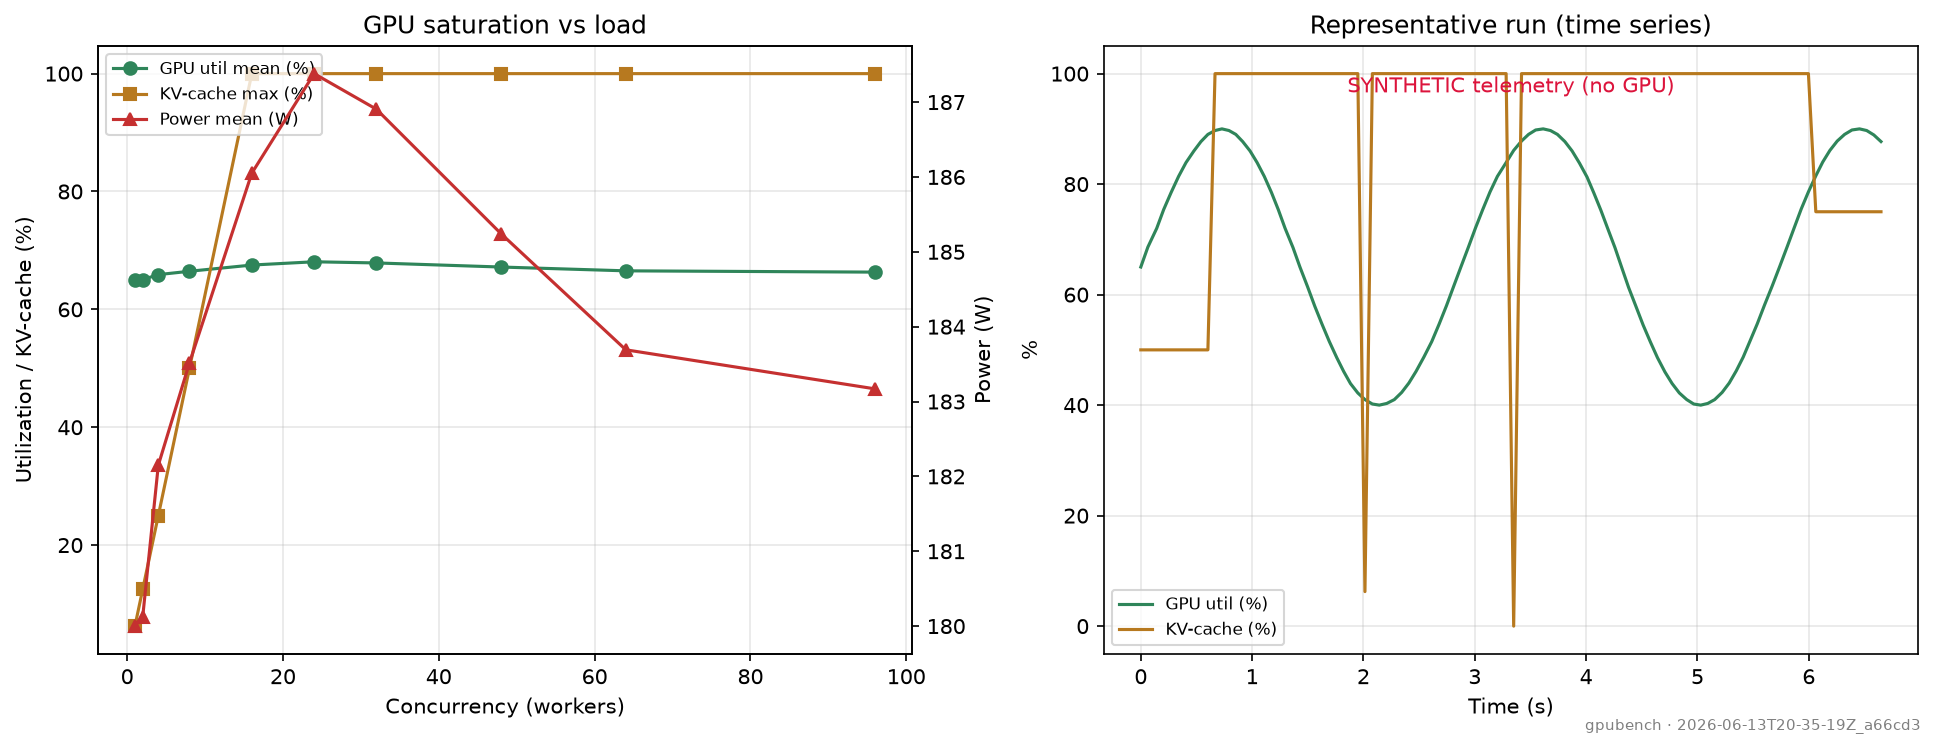
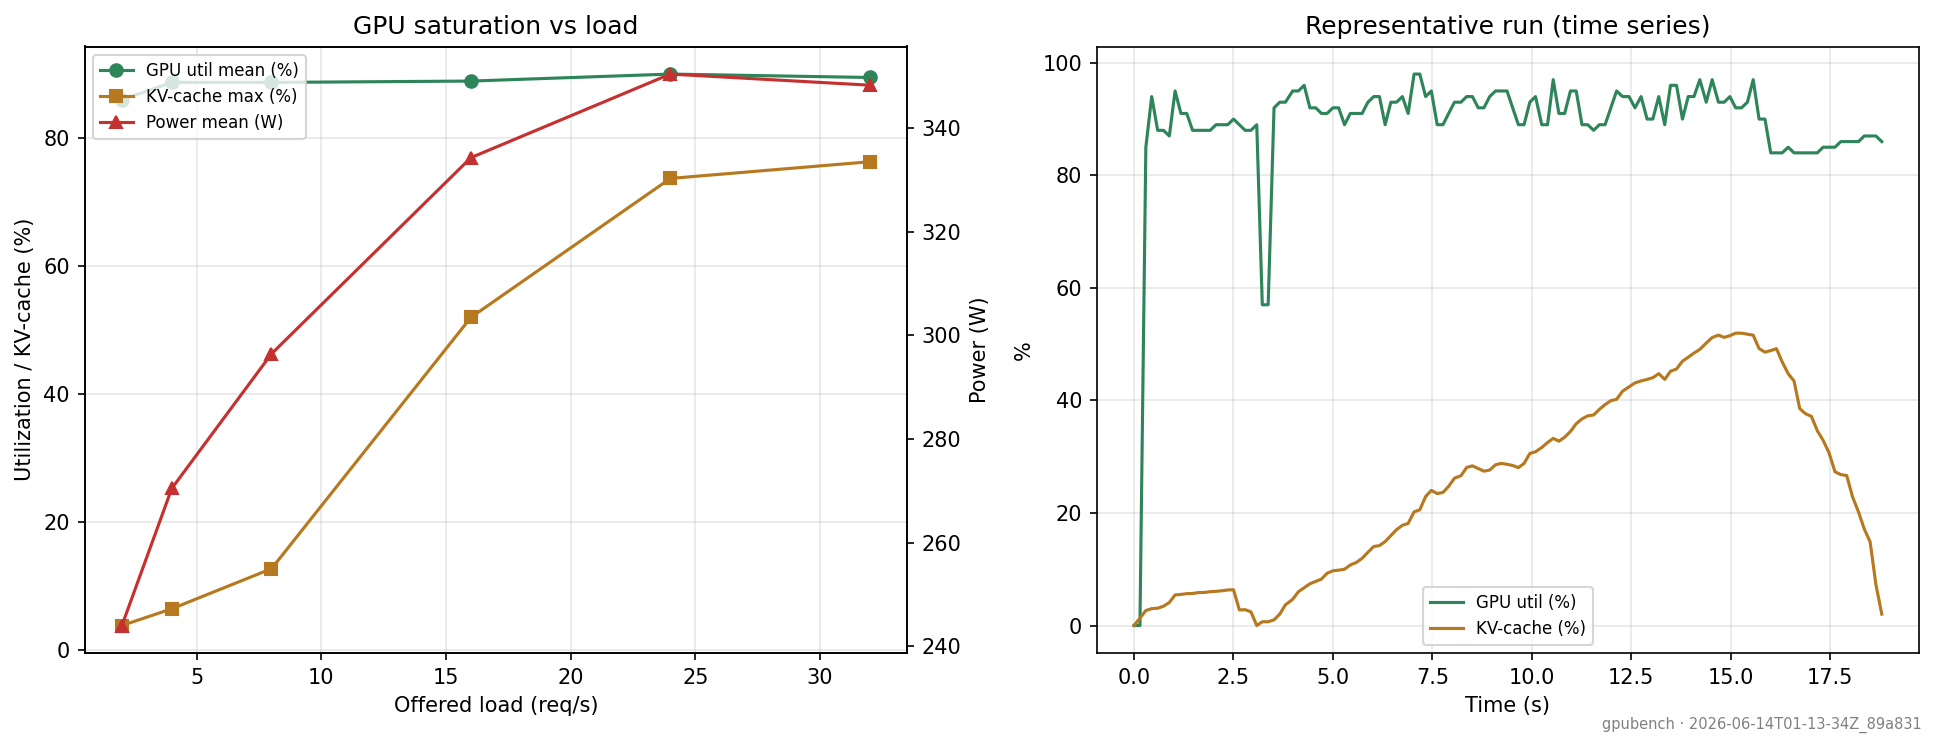
docs: add Results section with real A100 numbers + corrected plots
Single-A100 Llama-3.1-8B sweep, cross-validated against vllm bench serve to within ~1-6%. Replace the mock sample plots with the real (post-pool-fix) ones and write the findings in plain prose: ~16 req/s ceiling, ~7 req/s useful capacity under SLO, decode/memory-bandwidth-bound, and the cross-check that caught the connection-pool bug.

diff --git a/README.md b/README.md
@@ -1,20 +1,69 @@
-# llm_inference_benchmarking — `gpubench`
+# llm_inference_benchmarking (`gpubench`)
 
-A **single-GPU LLM inference benchmarking harness** for [vLLM](https://docs.vllm.ai).
-It drives a vLLM OpenAI-compatible server with a *coordinated-omission-correct*
-load generator, correlates serving latency with GPU telemetry, finds the
-**latency–throughput knee**, and cross-checks every number against vLLM's own
-`vllm bench serve` as a reference oracle.
+A benchmarking harness for LLM inference on a single GPU. It starts a vLLM server,
+throws traffic at it with a load generator I wrote, watches the card with
+nvidia-smi, and works out how hard you can push one GPU before latency falls apart.
 
-It is built as a **measurement instrument**: the design assumes that *wrong
-numbers are worse than no numbers*, so the subtle, credibility-defining details
-(coordinated omission, the exact TPOT formula, the current vLLM `/metrics` names,
-the GQA KV-cache math) are gotten right and pinned by tests.
+I built it to learn inference serving properly. Anyone can call an LLM API; far
+fewer people can tell you how many users one GPU actually handles, or explain why
+it slows down. That was the skill I wanted.
 
-> New to LLM serving? Read [`TEACHING.md`](TEACHING.md) first — it explains the
-> whole thing from zero using one running analogy (a restaurant kitchen).
+The rule I held myself to was that the numbers have to be right, because a
+benchmark that lies is worse than no benchmark. So every metric gets cross-checked
+against vLLM's own `vllm bench serve`, and the math is pinned down with tests.
 
-![GPU saturation example](docs/sample_gpu_saturation.png)
+If you're new to this, start with [TEACHING.md](TEACHING.md). It explains the whole
+thing from scratch using a restaurant-kitchen analogy.
+
+![Latency vs throughput on an A100](docs/sample_pareto_knee.png)
+
+---
+
+## Results
+
+I ran this on a single A100 (through Colab) against Llama-3.1-8B with 512-token
+prompts and 128-token outputs, sweeping the request rate from 2 to 32 per second.
+Then I pointed vLLM's own `vllm bench serve` at the same server to check my work.
+The two agreed to within about 1 to 6 percent, so I'm confident the harness is
+measuring what it should.
+
+| Offered req/s | Achieved | TTFT p99 | TPOT p99 | Output tok/s | Goodput | KV-cache |
+|---:|---:|---:|---:|---:|---:|---:|
+| 2  | 1.96  | 101 ms  | 17 ms | 251  | 1.96 | 4%  |
+| 4  | 3.85  | 112 ms  | 20 ms | 493  | 3.85 | 6%  |
+| 8  | 7.39  | 160 ms  | 27 ms | 945  | 7.39 | 13% |
+| 16 | 12.65 | 317 ms  | 67 ms | 1620 | 6.14 | 52% |
+| 24 | 15.33 | 689 ms  | 79 ms | 1962 | 4.14 | 74% |
+| 32 | 16.09 | 1970 ms | 82 ms | 2059 | 0.00 | 76% |
+
+Goodput is the number of requests per second that met an SLO of TTFT under 1s and
+TPOT under 50ms.
+
+A few things this tells you:
+
+The server maxes out around 16 requests per second, or roughly 2,000 output tokens
+a second. You can offer more than that, but you don't get more work out the other
+end, you just pay for it in latency.
+
+The useful capacity is lower than the raw number. Holding it to the SLO above, you
+get about 7 req/s before requests start missing the deadline. After that, per-token
+latency drifts past 50ms and goodput falls off fast, all the way to zero at 32 req/s.
+
+What's actually slowing it down is the decode step, not request queueing and not
+running out of KV-cache memory. First-token latency stays low (under 350ms even at
+16 req/s) and the KV cache never fills up, topping out around 76%. The giveaway is
+on the GPU itself: it sits at about 89% utilization but power holds around 350W,
+well under the card's limit. That is what a memory-bandwidth-bound decode looks like.
+
+One more thing, because it was the most useful lesson of the whole project. My first
+run reported TTFT about five times too high, and I only caught it because I compared
+against vLLM's official tool. The problem wasn't the server at all. It was my load
+generator's HTTP connection pool being too small, so requests were piling up on my
+side before they ever reached vLLM. Once I sized the pool correctly everything lined
+up. That is the entire reason you cross-check your own numbers against something you
+already trust.
+
+![GPU utilization, KV-cache and power under load](docs/sample_gpu_saturation.png)
 
 ---
 